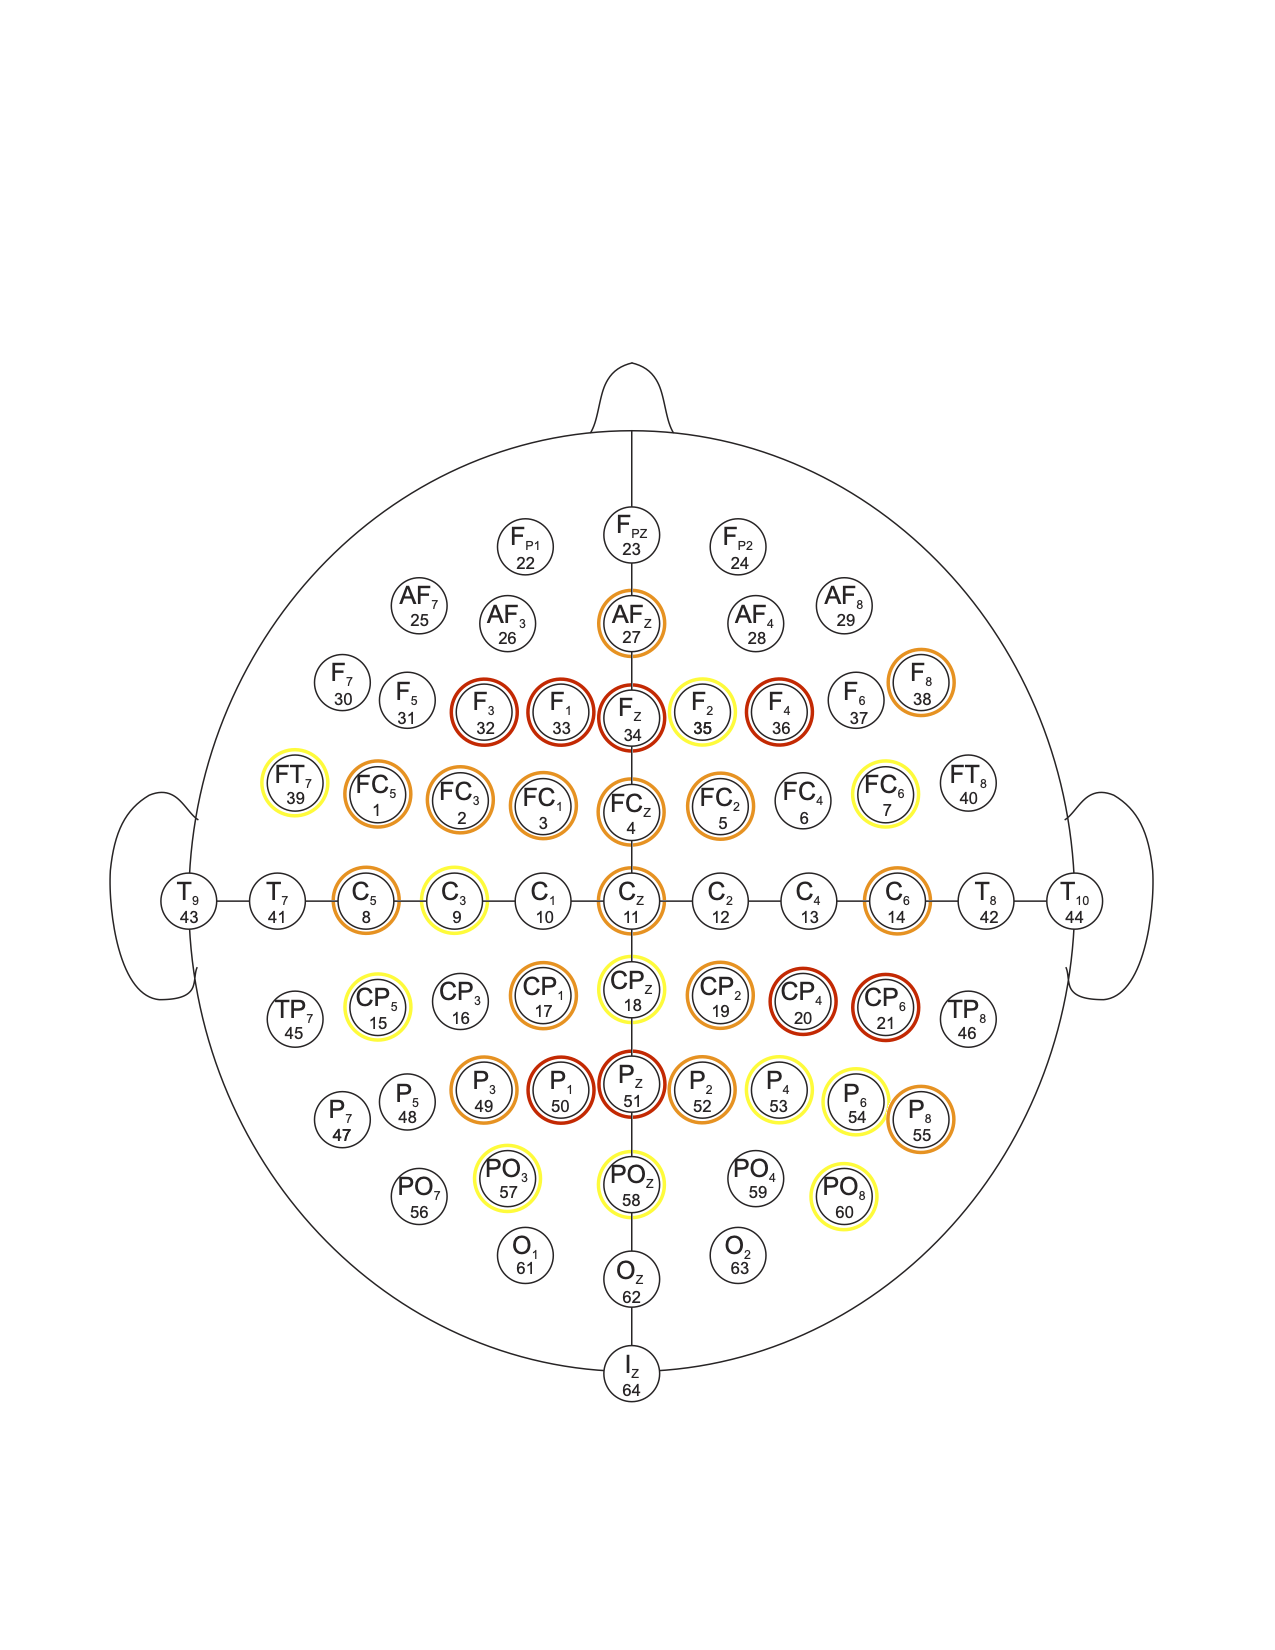
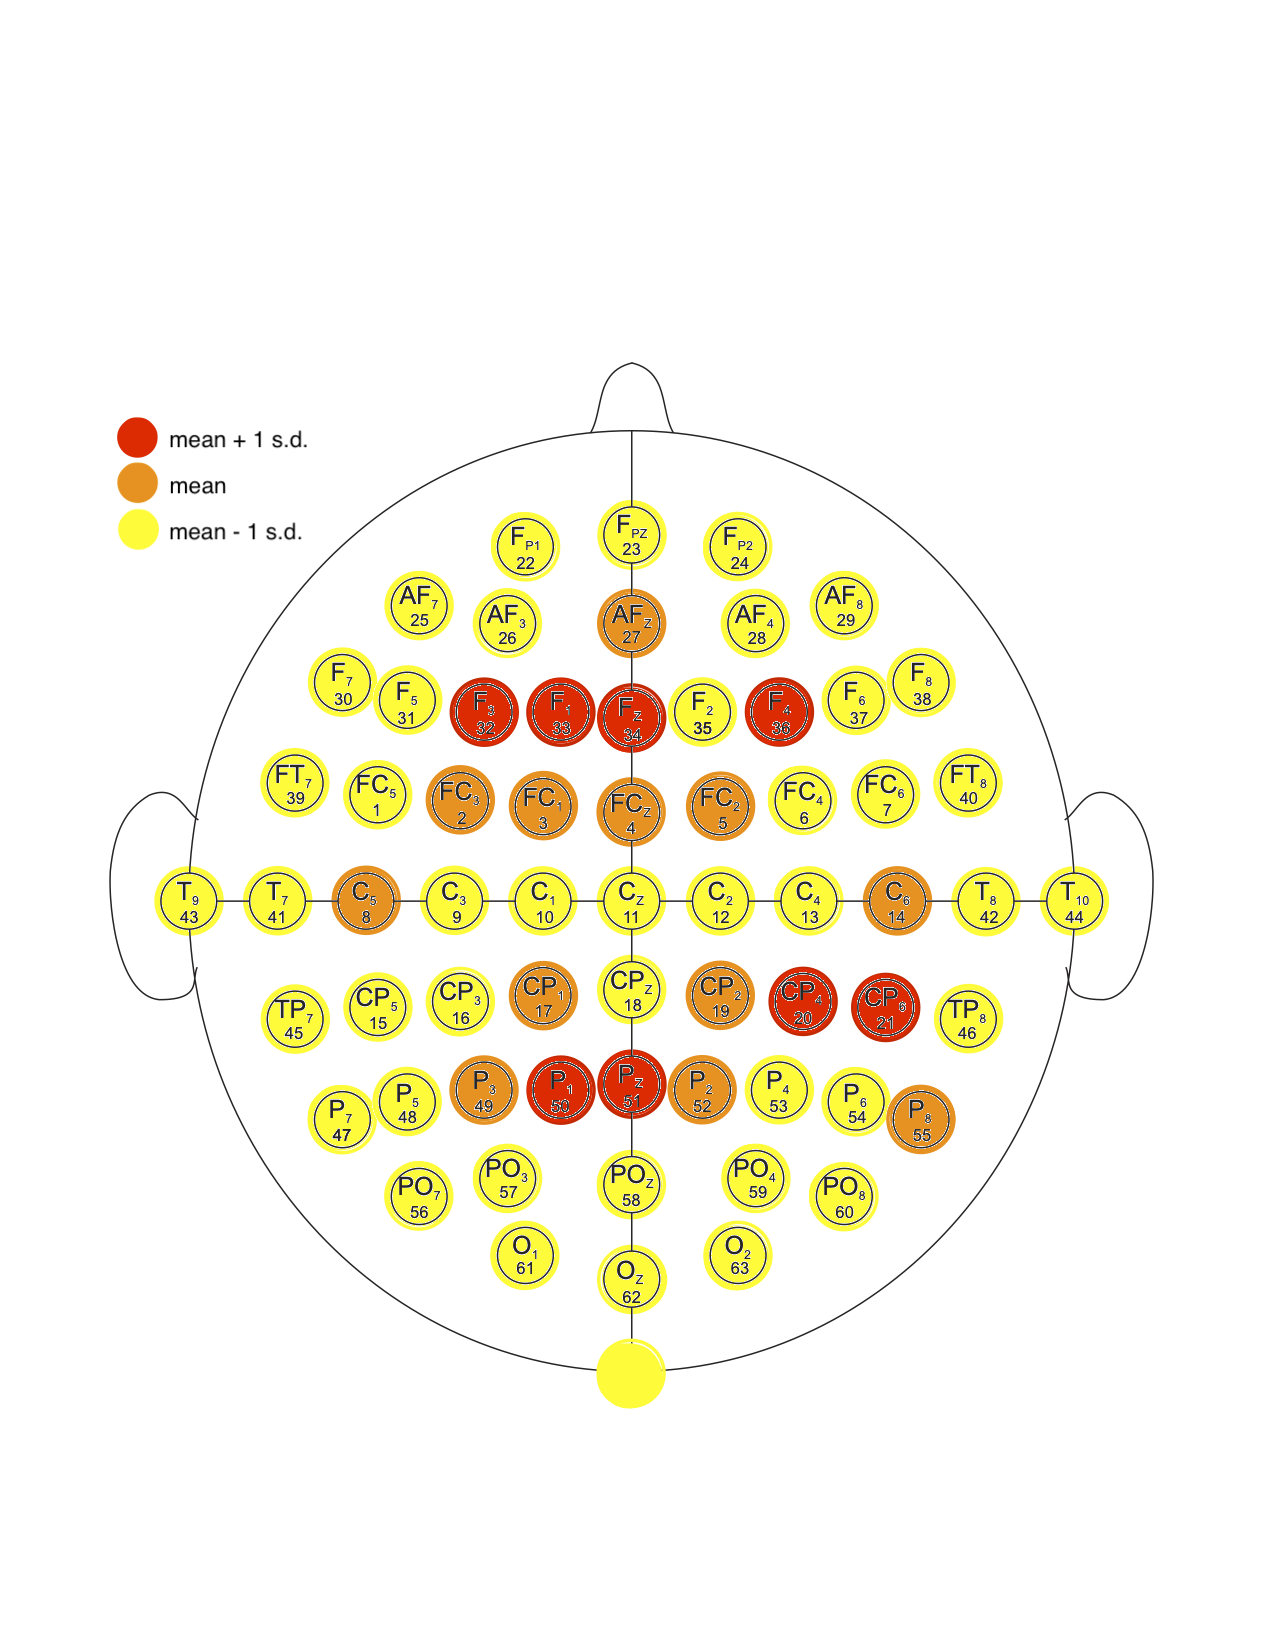
add heatmap for each filter

diff --git a/plot_channels.py b/plot_channels.py
@@ -1,9 +1,6 @@
 import os
 import numpy as np
 from PIL import Image
-from keras.models import load_model
-
-from ranking import get_cspweights
 
 __author__ = "Tianhong Gan"
 __email__ = "tianhonggan@outlook.com"
@@ -24,31 +21,82 @@ def plot_channels(channels, num_classes, n_ch):
         background.paste(img, (0, 0), img)
     background.save(f'plot_channels/plots/class{num_classes}_nch{n_ch}.png',"PNG")
 
-def plot_heatmap(num_classes):
+def plot_heatmap_avg(num_classes,type):
+    ''' plot heatmap of 64-channels on 10-10 international system - average across all 12 filters
+
+    Keyword arguments:
+    num_classes -- number of classes
+    type -- 'channels' for coloured ring around channels or 'channels_fill' for opaque colour heatmap
+    '''
     os.makedirs(f'plot_channels/plots/heatmap', exist_ok=True)
 
-    w = np.loadtxt(open(f'results/w_{num_classes}class_csp.csv', "rb"), delimiter=" ")
-    w = get_cspweights(w)
+    w_temp = np.loadtxt(open(f'results/w_{num_classes}class_csp.csv', "rb"), delimiter=" ")
+    w = np.zeros(64) # creating an empty of dimension 64 x 2 for channel number and energy
+
+    index = 0 # iterator
+
+    for channel in w_temp:
+        for filter in channel:
+            w[index] += np.sqrt(filter**2) # set channel energy
+        index+=1
+
+    mean = np.mean(w)
+    sd = np.std(w)
 
     background = Image.open(f'plot_channels/64_channel_sharbrough_bg.png')
 
     channel = 1
     for i in w:
-        if i > 1:
-            img = Image.open(f'plot_channels/channels/{channel}.png')
+        if i > mean+sd:
+            img = Image.open(f'plot_channels/{type}/{channel}.png')
             background.paste(img, (0, 0), img)
-        elif i > 0.6:
-            img = Image.open(f'plot_channels/channels/{channel}_o.png')
+        elif i > mean:
+            img = Image.open(f'plot_channels/{type}/{channel}_o.png')
             background.paste(img, (0, 0), img)
-        elif i > 0.4:
-            img = Image.open(f'plot_channels/channels/{channel}_y.png')
+        elif i > mean-sd:
+            img = Image.open(f'plot_channels/{type}/{channel}_y.png')
             background.paste(img, (0, 0), img)
         else:
             pass
         channel += 1
     background.save(f'plot_channels/plots/heatmap/class{num_classes}.png',"PNG")
 
-# plot_heatmap(4)
+def plot_heatmap(num_classes,type):
+    ''' plot heatmap of 64-channels on 10-10 international system - for all 12 csp filters
+
+    Keyword arguments:
+    num_classes -- number of classes
+    type -- 'channels' for coloured ring around channels or 'channels_fill' for opaque colour heatmap
+    '''
+    os.makedirs(f'plot_channels/plots/heatmap', exist_ok=True)
+
+    w = np.loadtxt(open(f'results/w_{num_classes}class_csp.csv', "rb"), delimiter=" ")
+
+    mean = np.mean(w)
+    sd = np.std(w)
+
+    for filter in range(12):
+        background = Image.open(f'plot_channels/64_channel_sharbrough_bg.png')
+
+        channel = 1
+        for i in w[:,filter]:
+            if i > mean+sd:
+                img = Image.open(f'plot_channels/{type}/{channel}.png')
+                background.paste(img, (0, 0), img)
+            elif i > mean:
+                img = Image.open(f'plot_channels/{type}/{channel}_o.png')
+                background.paste(img, (0, 0), img)
+            elif i > mean-sd:
+                img = Image.open(f'plot_channels/{type}/{channel}_y.png')
+                background.paste(img, (0, 0), img)
+            else:
+                pass
+            channel += 1
+        background.save(f'plot_channels/plots/heatmap/class{num_classes}_filter{filter}.png',"PNG")
+
+# plot_heatmap_avg(4,'channels_fill')
+# plot_heatmap(4,'channels_fill')
+
 
 ''' make white background transparent '''
 

diff --git a/ranking.py b/ranking.py
@@ -118,22 +118,3 @@ def channel_selection_csprank(w, NO_channels, NO_selected_channels, NO_csp):
         filter_index += 1
 
     return np.sort(selected_channels)
-
-def get_cspweights(w):
-    ''' get csp weights for all 64 channels
-
-     Keyword arguments:
-     w -- set of 12 spatial filters of size [NO_channels, NO_csp]
-
-    Return: csp weights
-    '''
-    w_sum = np.zeros(64) # creating an empty of dimension 64 x 2 for channel number and energy
-
-    index = 0 # iterator
-
-    for channel in w:
-        for filter in channel:
-            w_sum[index] += np.sqrt(filter**2) # set channel energy
-        index+=1
-
-    return w_sum
